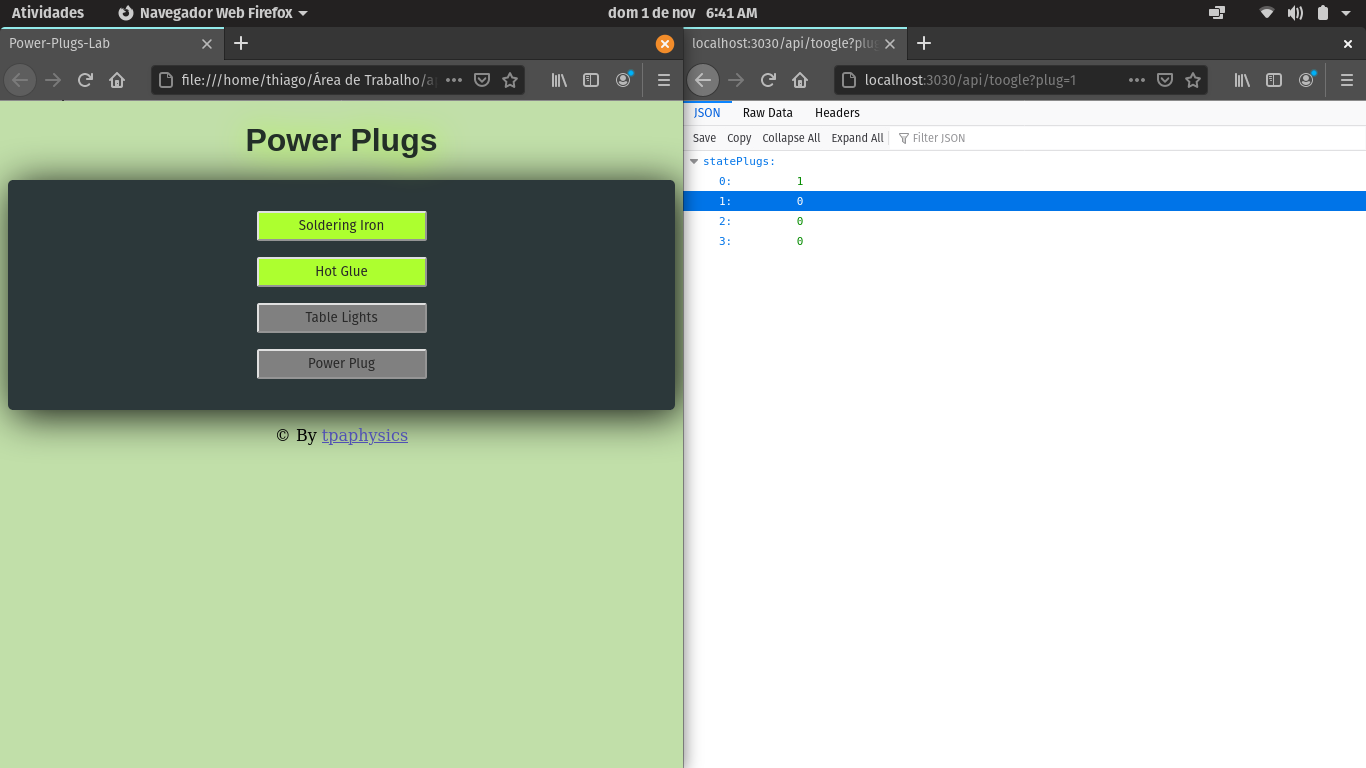
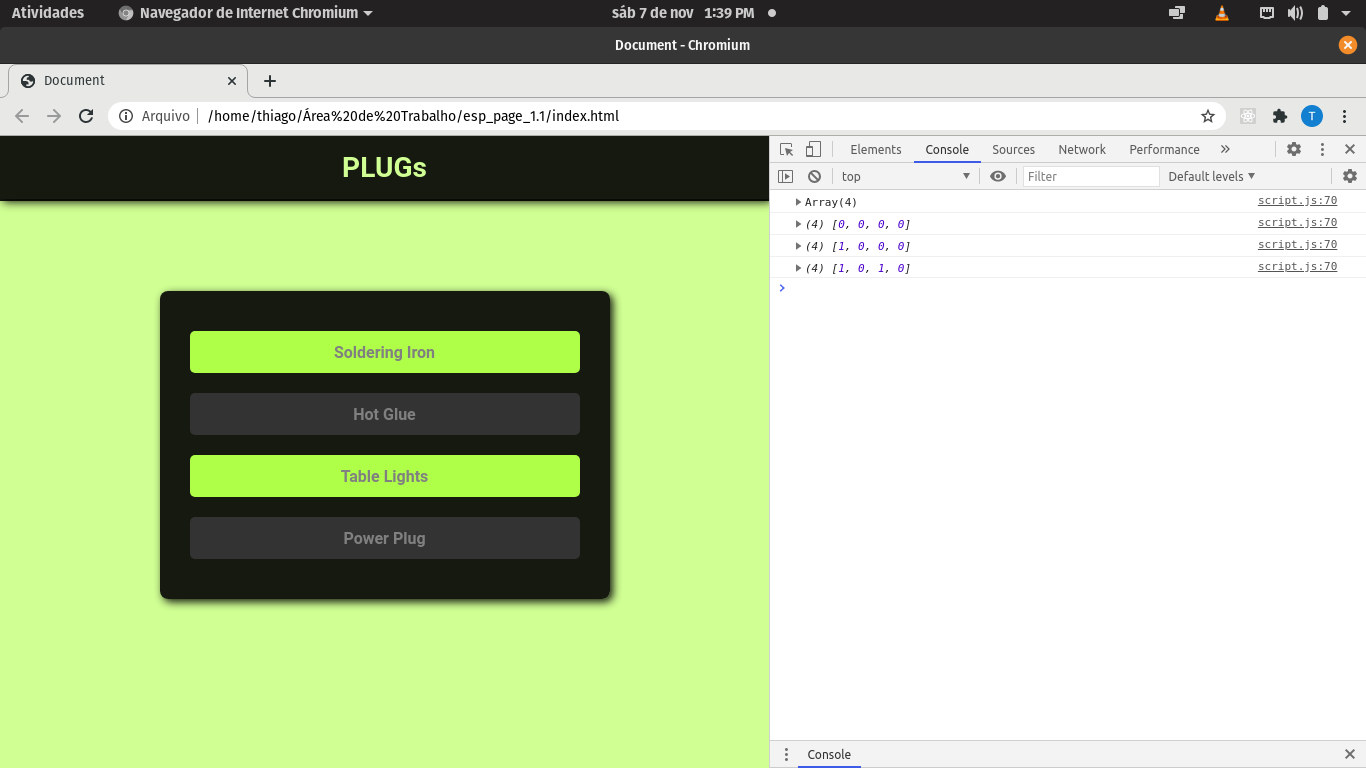
Update interface flex

diff --git a/front-end-ESP/script.js b/front-end-ESP/script.js
@@ -23,12 +23,15 @@ const verifyButtonState = () => {
             const { statePlugs } = response
             
             for(let i = 0; i<=3 ; i++){
-                let btn = document.getElementById(`t${i+1}`);
+                const btn = document.getElementById(`t${i+1}`);
+                
                 
                 if (statePlugs[i] == 1) {
-                    btn.style.backgroundColor = "greenyellow"
+                    btn.style.backgroundColor = "#c5ff3c";
+                    btn.style.color = "grey";
                 } else {
-                    btn.style.backgroundColor = "grey"
+                    btn.style.backgroundColor =  "#333333";
+                    btn.style.color = "grey"; 
                 } 
             }
            
@@ -36,8 +39,10 @@ const verifyButtonState = () => {
             
             console.log(error);
             for(let i = 0; i<=3 ; i++){
-                let btn = document.getElementById(`t${i+1}`);
-                btn.style.backgroundColor = "rgba(15, 23, 36, 0.836)"
+                const btn = document.getElementById(`t${i+1}`);
+                btn.style.backgroundColor = "#283520"; //
+                btn.style.color = "grey";
+                
             }
         });
 }
@@ -53,11 +58,13 @@ const toogle = (plugNunber) => {
             const index = plugNunber -1;
             
             if ( statePlugs[index] == 1 ) {
-                let btn = document.getElementById(`t${plugNunber}`);
-                btn.style.backgroundColor = "greenyellow"
+                const btn = document.getElementById(`t${plugNunber}`);
+                btn.style.backgroundColor = "#c5ff3c";
+                btn.style.color = "grey";
             } else {
-                let btn = document.getElementById(`t${plugNunber}`);
-                btn.style.backgroundColor = "grey"
+                const btn = document.getElementById(`t${plugNunber}`);
+                btn.style.backgroundColor = "#333333"; 
+                btn.style.color = "grey";
             }
             
             console.log( statePlugs );
@@ -67,16 +74,3 @@ const toogle = (plugNunber) => {
 }
 
 var interval = window.setInterval(verifyButtonState, 10000);
-
-
-
-
-
-
-
-
-
-
-
-
-

diff --git a/front-end-ESP/styles.css b/front-end-ESP/styles.css
@@ -1,35 +1,81 @@
-body {
-    background-color: rgba(138, 194, 92, 0.521);
-    text-align: center;
+@import url( 'https://fonts.googleapis.com/css2?family=Roboto:wght@400;700&display=swap' );
+
+* {
+    margin: 0;
+    padding: 0;
+    outline: 0; 
+    box-sizing: border-box; 
 }
 
-header {
-    color: rgba(5, 11, 19, 0.836);
-    font-family: Arial;
-    font-size: 12pt;
-    text-shadow: 2px 2px 30px greenyellow;
-
+html, body{
+    min-height:  100%;
+    background: #ddff8f;
 }
 
-section {
-    background-color: rgba(15, 23, 36, 0.836);
-    border-radius: 5px;
-    box-shadow: 5px 5px 40px rgb(12, 14, 11);
-    padding: 15px;
-    width: auto;
-    margin: auto;
+.bunner{
+    width: 100%;
+    height: 65px;
+    background: rgba(0,0,0,0.9);
     display: flex;
-    max-width: 700px;
+    flex-direction: row;
+    align-items: center;
     justify-content: center;
+}
+
+.bunner h1{
+    color: #ddff8f;
+}
+
+img{
+    margin: 25px auto 0;
+    height: 60px;
+    width: 100%;
+}
+
+
+body, button {
+    font-family: 'Roboto', Arial, Helvetica, sans-serif;
+    font-size: 14px;
+}
+
+.container{
+    margin: -25px auto 0;
+    max-width: 450px;
+    width: 100%;
+    display: flex;
+    flex-direction: column;
     align-items: center;
 }
 
-section button {
-    background-color: gray;
-    border-radius: 2px;
-    width:170px;
-    height: 30px;
+.content {
+    width: 100%;
+    background: rgba(0,0,0,0.9);
+    margin-top: 50px;
+    border-radius: 8px;
+    padding: 30px;
+    box-shadow: 3px 3px 9px rgba(0, 0, 0, 0.9);
+    
+    
 }
-a{
-    color: rgb(81, 81, 180);
+.content section{
+    display: flex;
+    flex-direction: column;
+    
+    
 }
+
+.content button.btn {
+    border: 0;
+    margin-top: 10px;
+    margin-bottom: 10px;
+    border-radius: 5px;
+    width: 100;
+    height: 42px;
+    padding: 0 20px;
+    font-size: 16px;
+    font-weight: bold;
+    background: #333333;
+    color: grey;
+    cursor: pointer;
+}
+

diff --git a/front-end-ESP/index.html b/front-end-ESP/index.html
@@ -1,32 +1,26 @@
 <!DOCTYPE html>
 <html lang="pt-br">
-
 <head>
-    <meta charset="UTF-8">
-    <meta name="viewport" content="width=device-width, initial-scale=1.0">
-    <title>Power-Plugs-Lab</title>
-
+    <meta charset="UTF-8"/>
+    <meta name="viewport" content="width=device-width, initial-scale=1.0"/>
     <link rel="stylesheet" href="./styles.css">
+    <title>Document</title>
 </head>
-
 <body>
-    <script src="./script.js"></script>
-    <header>
+    <header class="bunner">
         <h1>Power Plugs</h1>
     </header>
-
-    <section>
-        <div id="btn">
-          <p><button id="t1" onclick="toogle(1)"> Soldering Iron </button></p>
-          <p><button id="t2" onclick="toogle(2)"> Hot Glue </button></p>
-          <p><button id="t3" onclick="toogle(3)"> Table Lights</button></p>
-          <p><button id="t4" onclick="toogle(4)"> Power Plug </button></p>
+    <img src="./plug.svg" alt="PlugImg">
+    <div class="container">
+        <div class="content">
+            <section>
+                <button id="t1" onclick="toogle(1)" class="btn" type="submit">Soldering Iron</button>
+                <button id="t2" onclick="toogle(2)" class="btn" type="submit">Hot Glue</button>
+                <button id="t3" onclick="toogle(3)" class="btn" type="submit">Table Lights</button>
+                <button id="t4" onclick="toogle(4)" class="btn" type="submit">Power Plug</button>
+            </section>
         </div>
-    </section>
-
-    <footer>
-        <p>&copy; By <a href="http://github.com/tpaphysics/toogleESP32">tpaphysics</a></p>
-    </footer>
+      </div>
+      <script src="./script.js"></script>
 </body>
-
 </html>
